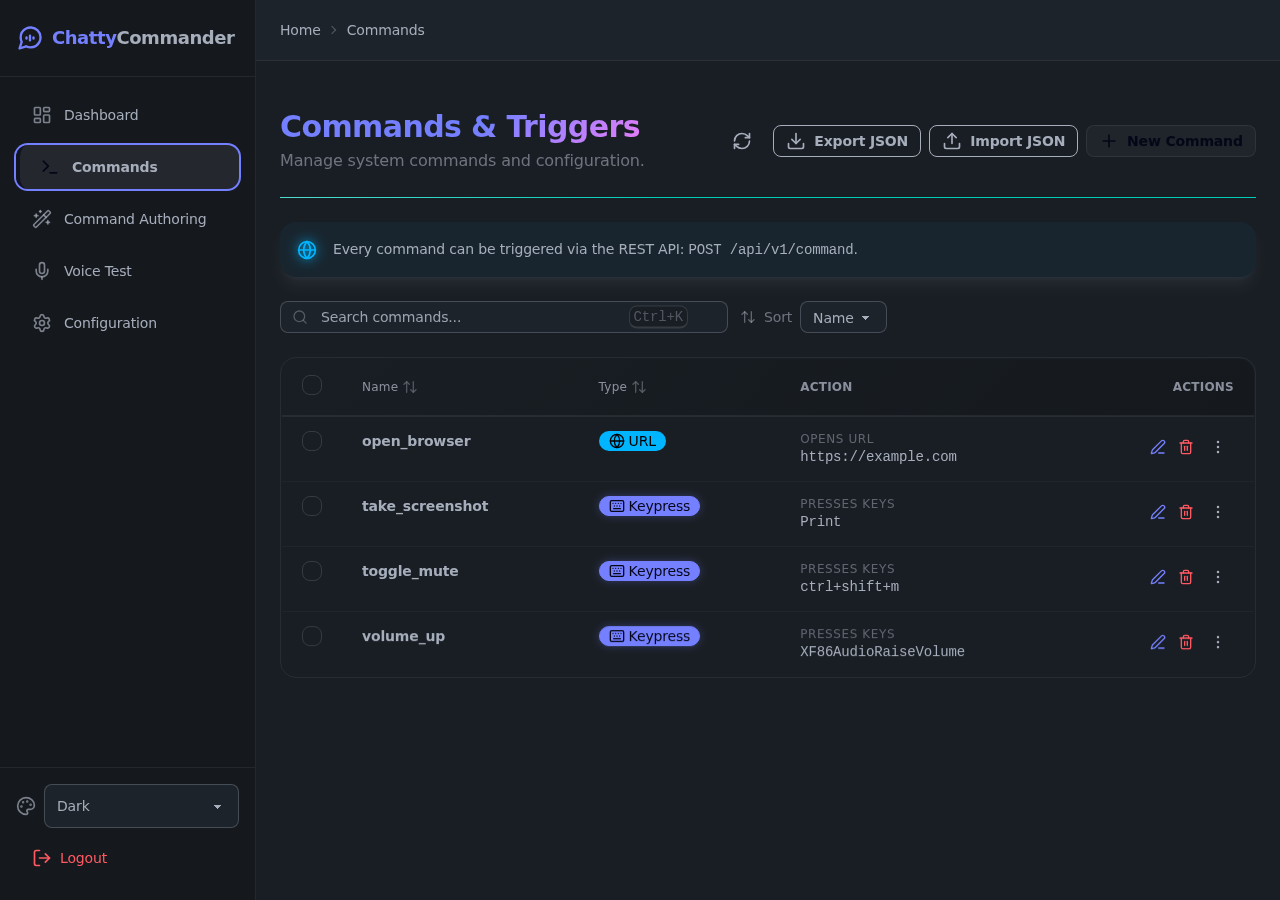
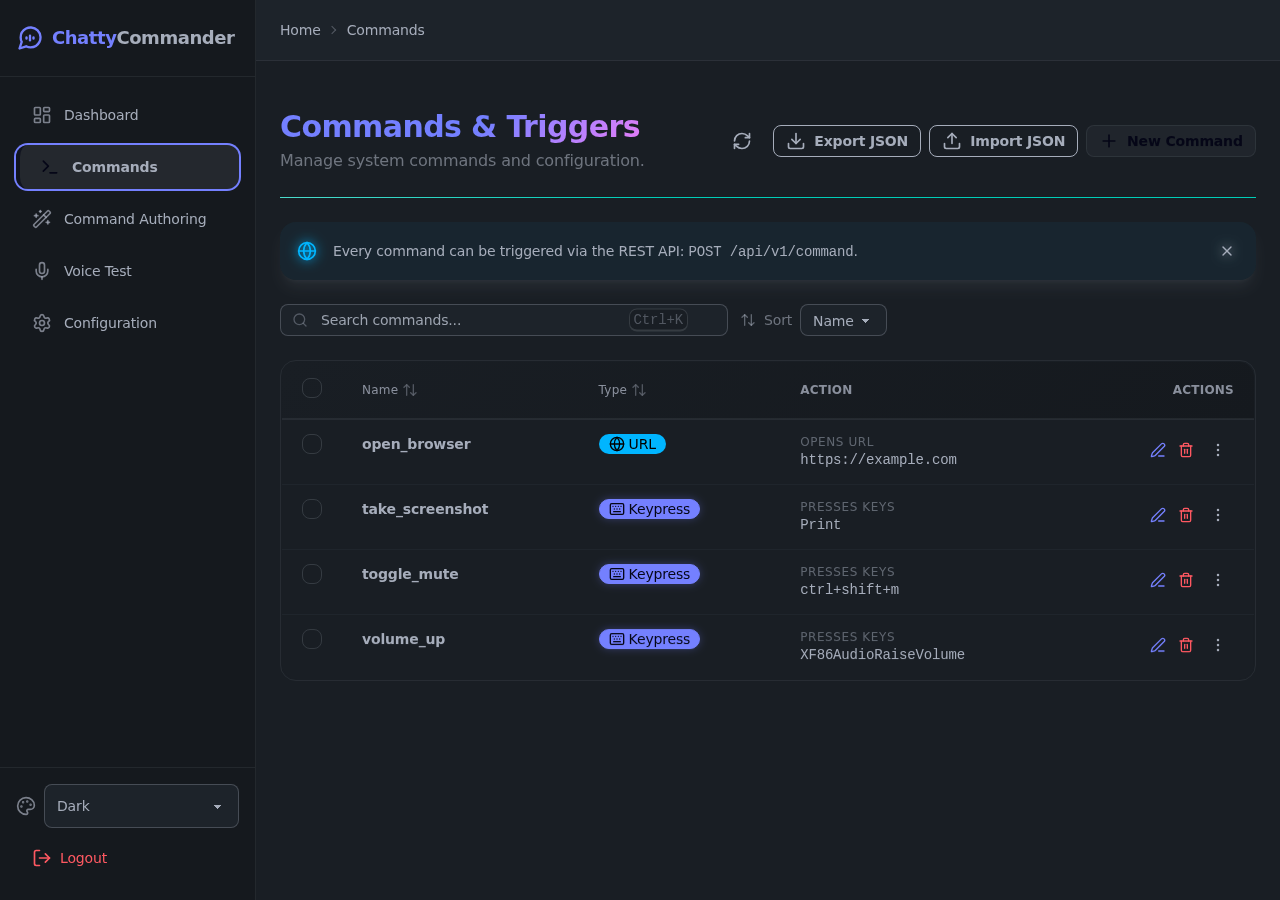
ui(commands): make the REST-API note dismissible + persisted (#746) (#746)
UI-quality / declutter loop, iteration 8 (final declutter item). The Commands
page is otherwise the cleanest, but it carried an always-visible info alert
("Every command can be triggered via the REST API: POST /api/v1/command") — a
learn-once hint that became permanent chrome. Add a close (X) button and persist
the dismissal in localStorage (mirroring the dashboard onboarding callout's
read/persist helpers), so once dismissed it stays hidden across reloads.

Gates: type-check + vitest (CommandsPage 28 / full 271) + build green; commands
e2e (11) pass; FULL e2e 141 passed / 3 skipped / 0 failed.

Pull request: UI loop iter 8: dismissible Commands REST-API note (#746)
Final declutter item. The Commands page is the cleanest of the set, but carried an always-visible info alert ("Every command can be triggered via the REST API…") — a learn-once hint that became permanent chrome.

Added a close (X) button and persisted the dismissal in localStorage (mirroring the dashboard onboarding callout's read/persist helpers), so once dismissed it stays hidden across reloads.

Gates: type-check ✅ · vitest 271 ✅ · build ✅ · commands e2e 11 ✅ · **full e2e 141 passed / 0 failed** ✅

This completes the 8-iteration declutter loop — a convergence report follows.

🤖 Generated with [Claude Code](https://claude.com/claude-code)

diff --git a/webui/frontend/src/pages/CommandsPage.tsx b/webui/frontend/src/pages/CommandsPage.tsx
@@ -38,6 +38,28 @@ interface CommandConfig {
 const MAX_STAGGER_INDEX = 12;
 const STAGGER_STEP = 0.03;
 
+// The "every command is REST-triggerable" note is useful once, then just noise.
+// Persist its dismissal so it stays hidden across reloads (mirrors the
+// dashboard onboarding callout's localStorage pattern).
+const REST_API_NOTE_DISMISSED_KEY = "chatty.commandsRestApiNoteDismissed";
+
+function readRestApiNoteDismissed(): boolean {
+  try {
+    return window.localStorage.getItem(REST_API_NOTE_DISMISSED_KEY) === "1";
+  } catch {
+    // localStorage may be unavailable (private mode / SSR); default to showing.
+    return false;
+  }
+}
+
+function persistRestApiNoteDismissed(): void {
+  try {
+    window.localStorage.setItem(REST_API_NOTE_DISMISSED_KEY, "1");
+  } catch {
+    // Best-effort; if we can't persist, the note simply reappears next load.
+  }
+}
+
 type CommandTypeKey = 'keypress' | 'url' | 'shell' | 'voice_chat' | 'custom_message' | 'unknown';
 
 interface CommandTypeMeta {
@@ -148,6 +170,7 @@ export default function CommandsPage() {
   // Bulk selection is keyed on command name so it survives sort/re-render.
   const [selected, setSelected] = useState<Set<string>>(new Set());
   const [isBulkDeleting, setIsBulkDeleting] = useState(false);
+  const [restApiNoteDismissed, setRestApiNoteDismissed] = useState(readRestApiNoteDismissed);
   const deleteDialogRef = useRef<HTMLDialogElement>(null);
   const importDialogRef = useRef<HTMLDialogElement>(null);
   const bulkDeleteDialogRef = useRef<HTMLDialogElement>(null);
@@ -616,14 +639,31 @@ export default function CommandsPage() {
       <div className="divider divider-accent"></div>
 
       {/* Page-level note: all commands are triggerable via the REST API. This
-          replaces the identical per-row "REST API Trigger" block. */}
-      <div className="alert alert-info/60 bg-info/5 border border-info/30 text-sm">
-        <Globe className="text-info shrink-0" size={20} />
-        <span>
-          Every command can be triggered via the REST API:{' '}
-          <code className="font-mono">POST /api/v1/command</code>.
-        </span>
-      </div>
+          replaces the identical per-row "REST API Trigger" block. Dismissible +
+          persisted, since it's a learn-once hint, not standing UI. */}
+      {!restApiNoteDismissed && (
+        <div
+          className="alert alert-info/60 bg-info/5 border border-info/30 text-sm"
+          data-testid="rest-api-note"
+        >
+          <Globe className="text-info shrink-0" size={20} />
+          <span className="flex-1">
+            Every command can be triggered via the REST API:{' '}
+            <code className="font-mono">POST /api/v1/command</code>.
+          </span>
+          <button
+            type="button"
+            className="btn btn-ghost btn-xs btn-square"
+            onClick={() => {
+              setRestApiNoteDismissed(true);
+              persistRestApiNoteDismissed();
+            }}
+            aria-label="Dismiss REST API note"
+          >
+            <X size={16} />
+          </button>
+        </div>
+      )}
 
       {/* Controls: search + sort */}
       <div className="flex flex-col md:flex-row md:items-center gap-3">